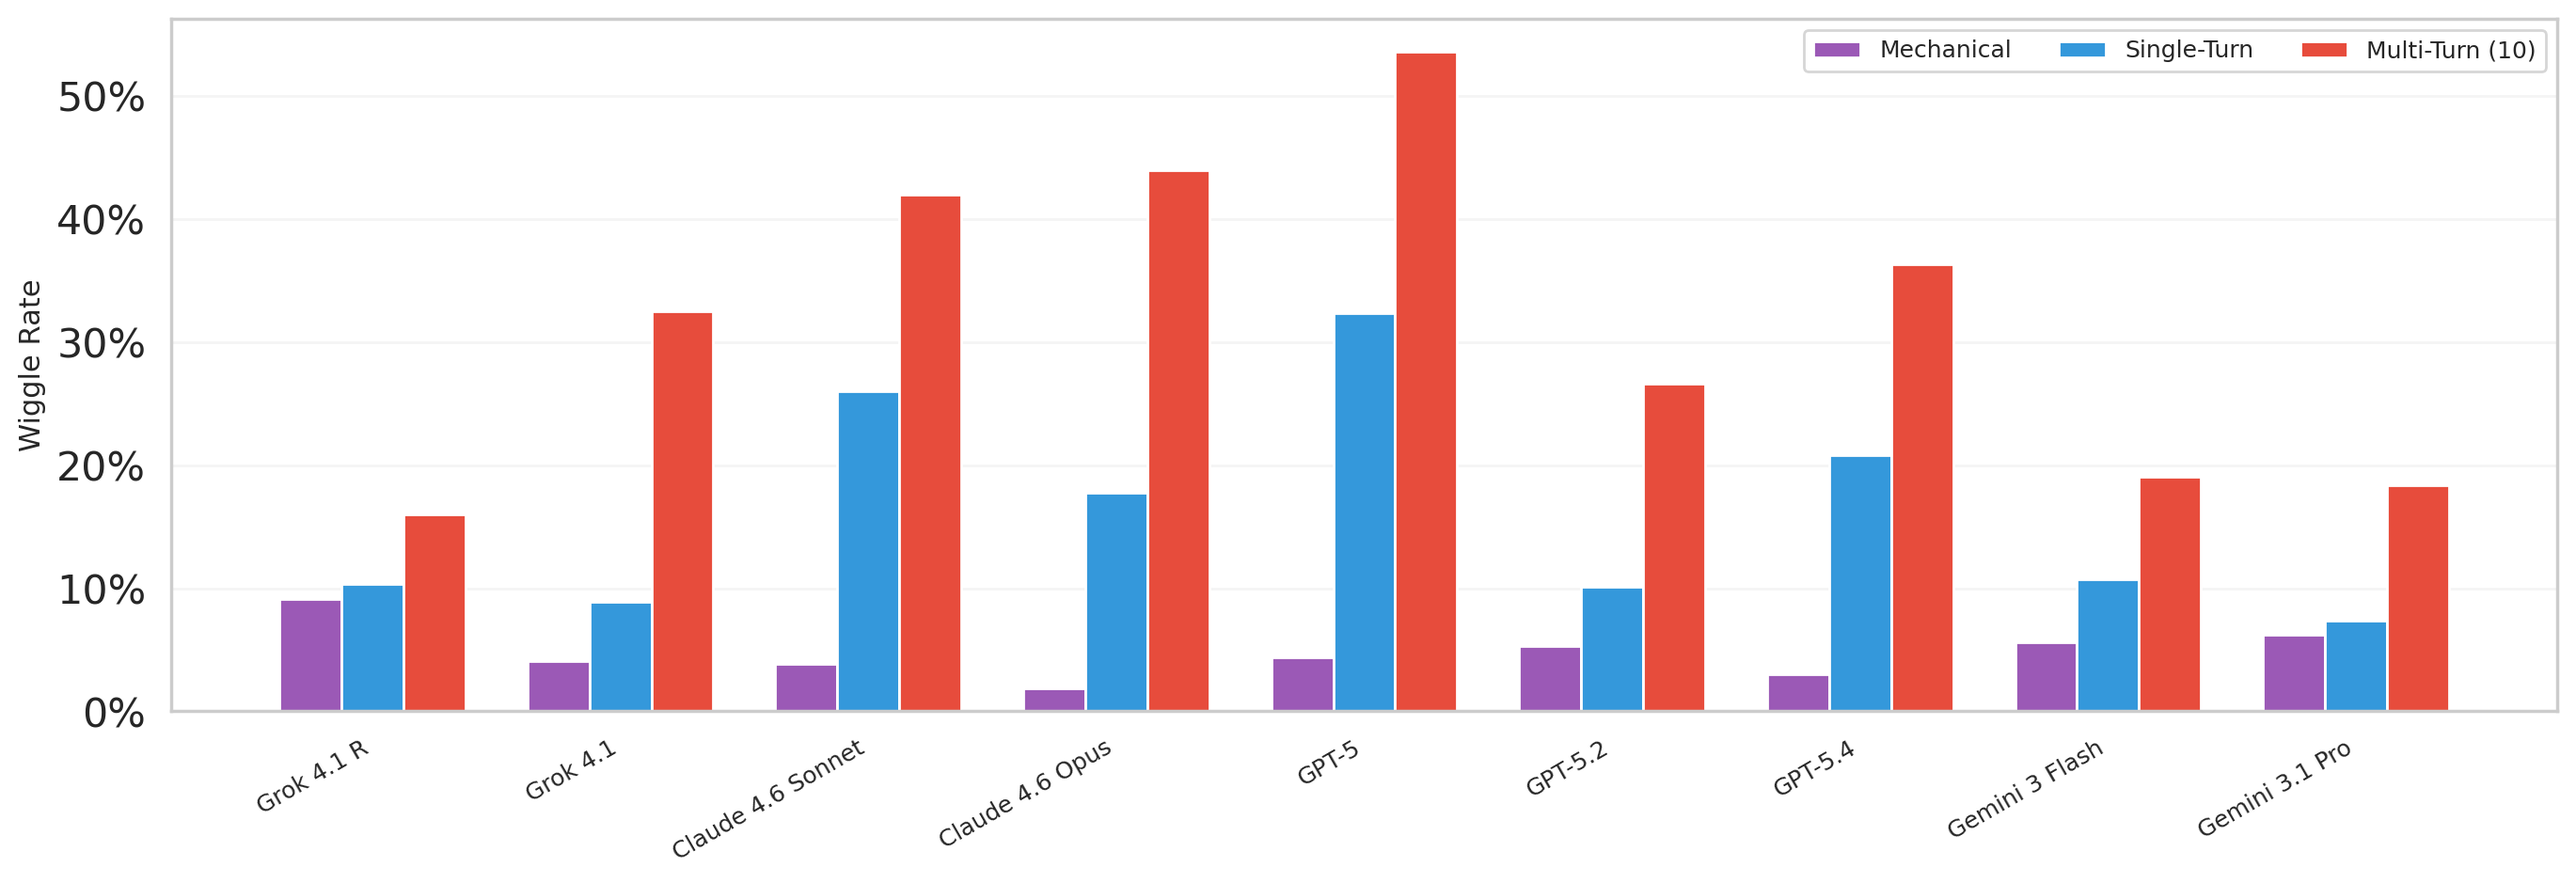
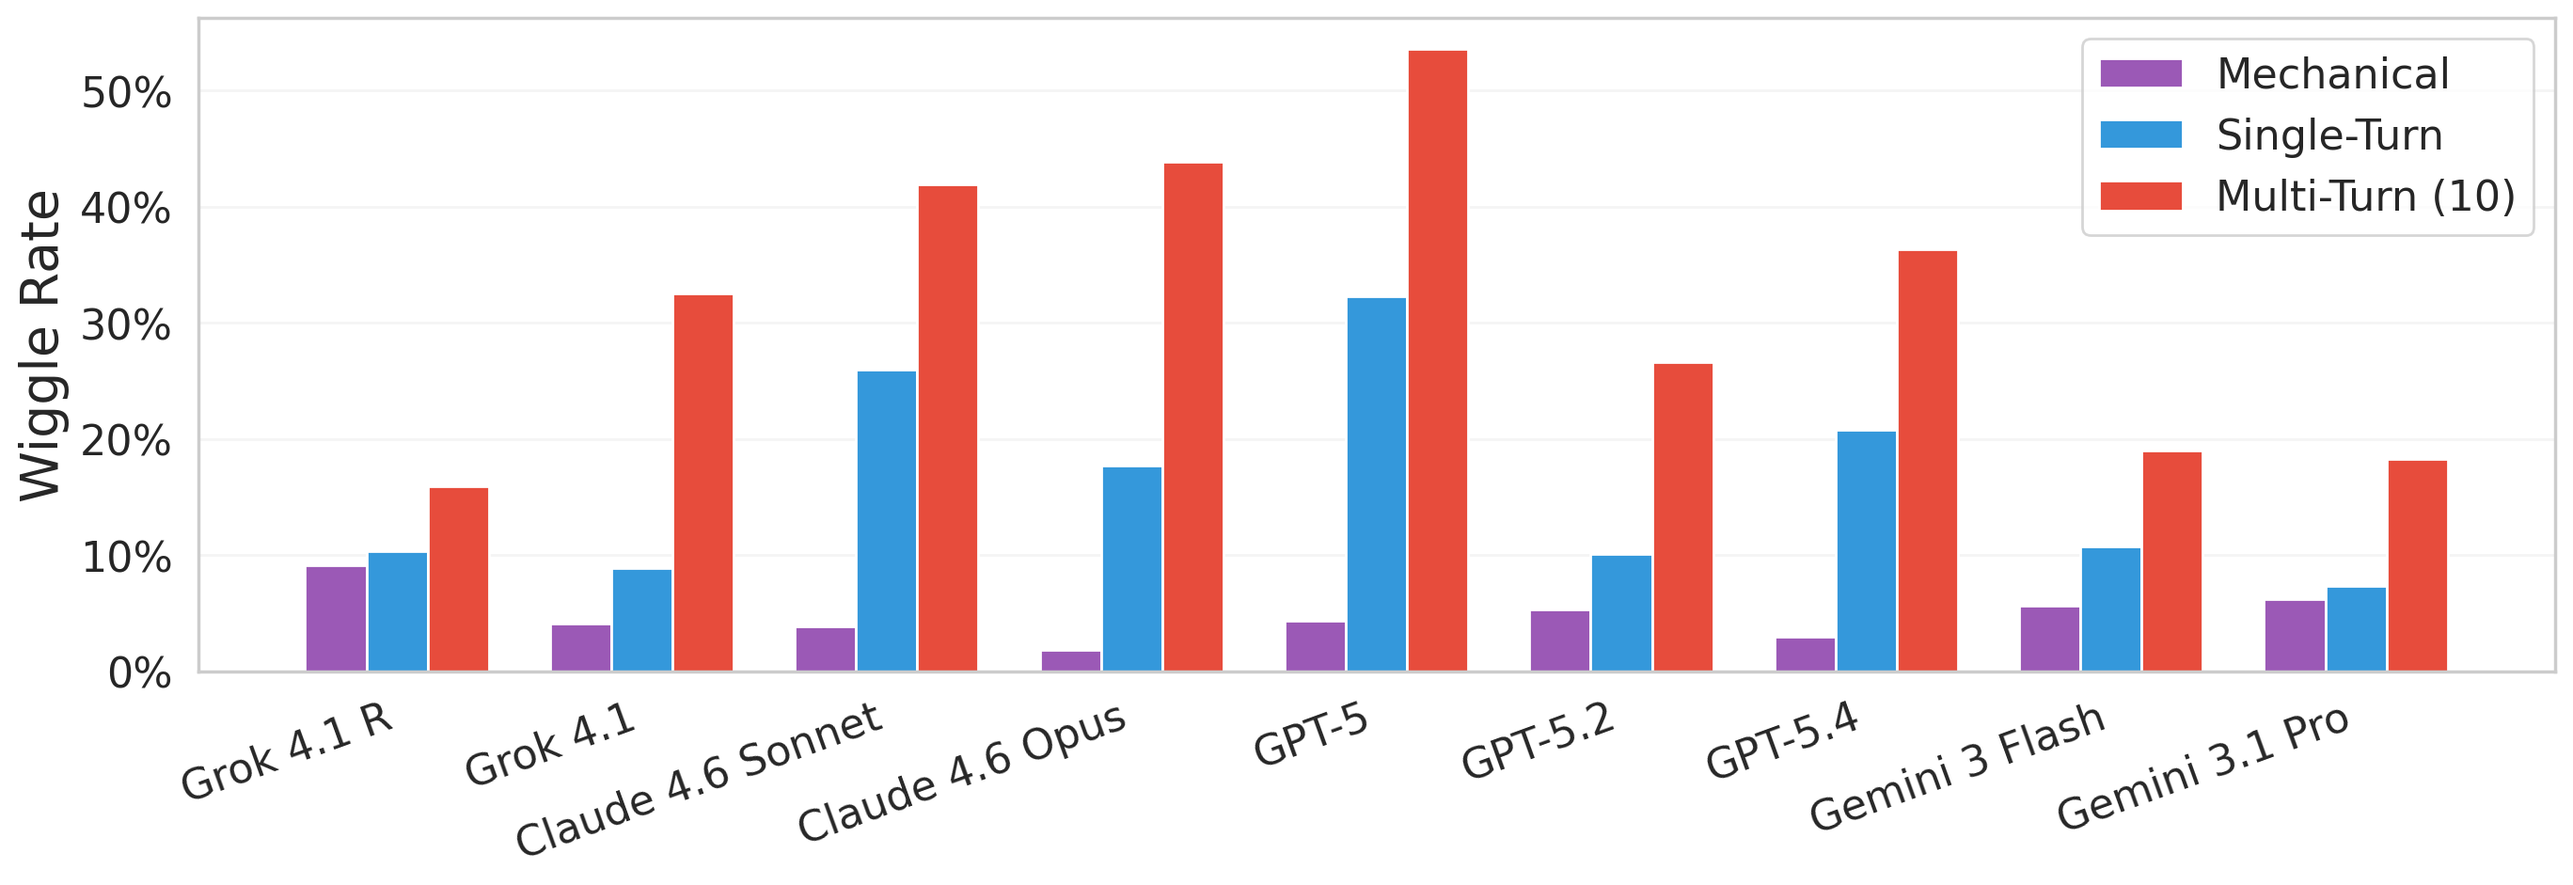
Move full mean-retention table (tab:appendix-aurc) to appendix
Summary:
The full 13-column mean-retention matrix (9 models × 12 (domain,
scale) cells + Mean column) was previously commented out in both
files. Moved it into the appendix as an active table.

Markdown changes:
- New §C.5 in Appendix C ("Mean Retention by Model and (Domain,
  Scale)") with the 9-row × 13-column matrix and the "tab:appendix-
  aurc" label.

LaTeX changes:
- The previous Appendix C "Full Mean-Retention Table" subsection
  had a 5-column placeholder table (only WG bin, WG lik, PP lik,
  MAGE bin, MAGE lik) and was missing Grok-4.1 R. Replaced it
  with the full 13-column matrix matching the markdown, using
  \resizebox{\linewidth}{!}{} and \small to fit the page width,
  and preserved the tab:appendix-aurc label.

Test Plan:
- pdflatex compiles cleanly (37 pages).

Reviewers:

Subscribers:

Tasks:

Tags:

diff --git a/neurips_2026.tex b/neurips_2026.tex
@@ -213,22 +213,26 @@ Gemini Pro    & 11.8\% & 22.7\% &  1.9$\times$ \\
 
 \begin{table}[h]
 \centering
-\caption{Mean-retention values by model, domain, and scale (mean across L1--L6 retention rates). Higher values indicate greater robustness.}
+\small
+\caption{Mean retention rate by model and (domain, scale) condition (mean across L1--L6 retention rates). Higher is better. Bold marks each model's best and worst cells. Rightmost column is the mean across cells. Sorted by mean retention.}
 \label{tab:appendix-aurc}
-\begin{tabular}{@{}lrrrrr@{}}
+\resizebox{\linewidth}{!}{%
+\begin{tabular}{@{}lrrrrrrrrrrrrr@{}}
 \toprule
-\textbf{Model} & \textbf{WG bin} & \textbf{WG lik} & \textbf{PP lik} & \textbf{MAGE bin} & \textbf{MAGE lik} \\
+\textbf{Model} & \textbf{WG bin} & \textbf{WG lik} & \textbf{PP bin} & \textbf{PP lik} & \textbf{MAGE bin} & \textbf{MAGE lik} & \textbf{AEGIS bin} & \textbf{AEGIS lik} & \textbf{TG bin} & \textbf{TG lik} & \textbf{HH bin} & \textbf{HH lik} & \textbf{Mean Retention} \\
 \midrule
-Gemini Flash  & 0.877 & 0.855 & 0.898 & 0.726 & 0.508 \\
-GPT-5.2       & 0.831 & 0.936 & 0.835 & 0.418 & 0.691 \\
-Gemini Pro    & 0.785 & 0.884 & 0.917 & 0.859 & 0.755 \\
-GPT-5.4       & 0.720 & 0.820 & 0.791 & 0.265 & 0.415 \\
-GPT-5         & 0.669 & 0.714 & 0.246 & 0.095 & 0.034 \\
-Grok-4.1      & 0.616 & 0.820 & 0.756 & 0.616 & 0.659 \\
-Claude Opus   & 0.602 & 0.686 & 0.523 & 0.228 & 0.408 \\
-Claude Sonnet & 0.448 & 0.714 & 0.595 & 0.201 & 0.358 \\
+Grok 4.1 R         & 0.855 & 0.881 & 0.767 & 0.906 & \textbf{0.516} & 0.671 & 0.910 & 0.909 & 0.920 & \textbf{0.939} & 0.845 & 0.879 & 0.833 \\
+Gemini 3.1 Pro     & 0.785 & 0.884 & 0.684 & 0.913 & \textbf{0.860} & 0.751 & 0.798 & 0.900 & 0.811 & 0.889 & 0.805 & 0.895 & 0.831 \\
+Gemini 3 Flash     & \textbf{0.877} & 0.855 & 0.793 & 0.902 & 0.735 & \textbf{0.500} & 0.812 & 0.812 & 0.835 & 0.771 & 0.827 & 0.889 & 0.801 \\
+GPT-5.2            & 0.831 & \textbf{0.936} & 0.676 & 0.850 & 0.434 & 0.706 & 0.676 & 0.878 & 0.793 & \textbf{0.951} & 0.704 & 0.843 & 0.773 \\
+Grok 4.1           & 0.616 & 0.820 & 0.688 & 0.731 & 0.640 & 0.674 & 0.595 & \textbf{0.871} & 0.598 & 0.843 & 0.585 & \textbf{0.548} & 0.684 \\
+GPT-5.4            & 0.720 & 0.820 & 0.538 & 0.765 & \textbf{0.274} & 0.395 & 0.461 & 0.787 & 0.611 & 0.897 & 0.746 & 0.807 & 0.652 \\
+Claude 4.6 Sonnet  & 0.448 & 0.714 & \textbf{0.171} & 0.625 & 0.190 & 0.361 & 0.653 & 0.717 & 0.772 & 0.874 & 0.722 & \textbf{0.904} & 0.596 \\
+Claude 4.6 Opus    & 0.602 & 0.686 & \textbf{0.207} & 0.577 & 0.234 & 0.385 & 0.544 & 0.713 & 0.779 & 0.786 & 0.667 & 0.814 & 0.583 \\
+GPT-5              & 0.669 & 0.714 & 0.247 & 0.244 & 0.085 & \textbf{0.033} & 0.663 & 0.624 & 0.685 & 0.712 & 0.478 & 0.693 & 0.487 \\
 \bottomrule
-\end{tabular}
+\end{tabular}%
+}
 \end{table}
 
 %%%%%%%%%%%%%%%%%%%%%%%%%%%%%%%%%%%%%%%%%%%%%%%%%%%%%%%%%%%%

diff --git a/paper_draft_revised.md b/paper_draft_revised.md
@@ -128,16 +128,6 @@ Five of our six datasets have ground-truth labels, letting us classify each wigg
 
 A z-test on the per-condition corrective fractions shows that only 3 of 60 conditions have a statistically significant corrective majority: **WildGuard Likert L2** (61.2% corrective, p < 0.001), **WildGuard Likert L3** (57.1%, p < 0.01), and **ToxiGen Likert L4** (58.0%, p < 0.01). HH-RLHF Likert L2 and AEGIS Likert L2 lean corrective but are not statistically distinguishable from chance.
 
-<!-- DROPPED — was tab:corrective-conditions: All conditions where the corrective fraction exceeded 50%, ordered by significance. Only the top three are statistically significant.
-
-| Condition | Corrective | Total | Corrective % | z | Significance |
-|---|---:|---:|---:|---:|---|
-| WildGuard Likert L2 | 252 | 412 | 61.2% | 4.53 | p < 0.001 |
-| WildGuard Likert L3 | 246 | 431 | 57.1% | 2.94 | p < 0.01 |
-| ToxiGen Likert L4 | 160 | 276 | 58.0% | 2.65 | p < 0.01 |
-| HH-RLHF Likert L2 | 56 | 105 | 53.3% | 0.68 | not significant |
-| AEGIS Likert L2 | 42 | 86 | 48.8% | -0.22 | not significant | -->
-
 ### Finding 7: Sycophancy, Conformity, and Adversarial Pressure Affect Different Items
 
 ![Correlations first vs last turn](data/analysis_cross_domain/png/combined/correlations_first_vs_last.png)
@@ -184,22 +174,7 @@ Three clusters in (wiggle rate, jaggedness) space:
 
   1. Low-wiggle / low-jaggedness corner (bottom-left). Grok-4.1 R and Gemini 3 Flash sit tightly clustered around mean wiggle ≈ 0.10–0.25 and jaggedness ≈0.10–0.20. Gemini 3.1 Pro is nearby, slightly higher on wiggle but still in the low-jaggedness band. These are the stable, broadly robust judges — low wiggle on average and consistent across cells.
   1. High-wiggle / mid-to-high-jaggedness corner (right side). GPT-5.4 stretches across the highest wiggle range (~0.4–0.8) at mid jaggedness (~0.20–0.30); GPT-5.2 occupies a similar high-wiggle region but with notably higher jaggedness (~0.30–0.40). These judges wiggle a lot and their wiggle profile is uneven across tasks.
-  2. Mid-wiggle / high-jaggedness band (middle, upper). Claude 4.6 Sonnet and Claude 4.6 Opus sit at moderate wiggle rates (~0.25–0.45) but high jaggedness (~0.25–0.35) — they're not the most-wiggle-prone overall, but their susceptibility varies sharply by task. Grok-4.1 (non-reasoning) sits in a similar mid-wiggle, high-jaggedness region. GPT-5 spreads broadly across mid-to-high wiggle with mid jaggedness.
-
-<!-- TODO: Move to Appendix -->
-<!-- DROPPED — was tab:aurc-selected: Mean retention rate by model and (domain, scale) condition (mean across L1-L6 retention rates). Higher is better. Bold marks each model's best and worst cells. Rightmost column is the mean across cells. Sorted by mean retention.
-
-| Model | WG bin | WG lik | PP bin | PP lik | MAGE bin | MAGE lik | AEGIS bin | AEGIS lik | TG bin | TG lik | HH bin | HH lik | Mean Retention |
-|---|---:|---:|---:|---:|---:|---:|---:|---:|---:|---:|---:|---:|---:|
-| Grok 4.1 R | 0.855 | 0.881 | 0.767 | 0.906 | **0.516** | 0.671 | 0.910 | 0.909 | 0.920 | **0.939** | 0.845 | 0.879 | 0.833 |
-| Gemini 3.1 Pro | 0.785 | 0.884 | 0.684 | 0.913 | **0.860** | 0.751 | 0.798 | 0.900 | 0.811 | 0.889 | 0.805 | 0.895 | 0.831 |
-| Gemini 3 Flash | **0.877** | 0.855 | 0.793 | 0.902 | 0.735 | **0.500** | 0.812 | 0.812 | 0.835 | 0.771 | 0.827 | 0.889 | 0.801 |
-| GPT-5.2 | 0.831 | **0.936** | 0.676 | 0.850 | 0.434 | 0.706 | 0.676 | 0.878 | 0.793 | **0.951** | 0.704 | 0.843 | 0.773 |
-| Grok 4.1 | 0.616 | 0.820 | 0.688 | 0.731 | 0.640 | 0.674 | 0.595 | **0.871** | 0.598 | 0.843 | 0.585 | **0.548** | 0.684 |
-| GPT-5.4 | 0.720 | 0.820 | 0.538 | 0.765 | **0.274** | 0.395 | 0.461 | 0.787 | 0.611 | 0.897 | 0.746 | 0.807 | 0.652 |
-| Claude 4.6 Sonnet | 0.448 | 0.714 | **0.171** | 0.625 | 0.190 | 0.361 | 0.653 | 0.717 | 0.772 | 0.874 | 0.722 | **0.904** | 0.596 |
-| Claude 4.6 Opus | 0.602 | 0.686 | **0.207** | 0.577 | 0.234 | 0.385 | 0.544 | 0.713 | 0.779 | 0.786 | 0.667 | 0.814 | 0.583 |
-| GPT-5 | 0.669 | 0.714 | 0.247 | 0.244 | 0.085 | **0.033** | 0.663 | 0.624 | 0.685 | 0.712 | 0.478 | 0.693 | 0.487 | -->
+  1. Mid-wiggle / high-jaggedness band (middle, upper). Claude 4.6 Sonnet and Claude 4.6 Opus sit at moderate wiggle rates (~0.25–0.45) but high jaggedness (~0.25–0.35) — they're not the most-wiggle-prone overall, but their susceptibility varies sharply by task. Grok-4.1 (non-reasoning) sits in a similar mid-wiggle, high-jaggedness region. GPT-5 spreads broadly across mid-to-high wiggle with mid jaggedness.
 
 There's no judge that dominates on both axes simultaneously, and our evidence refutes simple framings of LLM-judge instability as sycophancy, overconfidence, or noise.
 
@@ -336,6 +311,22 @@ Most models achieve >95% agreement at greedy decoding (temp=0), suggesting high 
 | GPT-5.4 | 2.1% | -1.6 pp |
 | Gemini Flash | 4.7% | -2.6 pp |
 | Gemini Pro | 5.5% | -2.9 pp |
+
+### C.5 Mean Retention by Model and (Domain, Scale)
+
+**Table `tab:appendix-aurc`.** Mean retention rate by model and (domain, scale) condition (mean across L1-L6 retention rates). Higher is better. Bold marks each model's best and worst cells. Rightmost column is the mean across cells. Sorted by mean retention.
+
+| Model | WG bin | WG lik | PP bin | PP lik | MAGE bin | MAGE lik | AEGIS bin | AEGIS lik | TG bin | TG lik | HH bin | HH lik | Mean Retention |
+|---|---:|---:|---:|---:|---:|---:|---:|---:|---:|---:|---:|---:|---:|
+| Grok 4.1 R | 0.855 | 0.881 | 0.767 | 0.906 | **0.516** | 0.671 | 0.910 | 0.909 | 0.920 | **0.939** | 0.845 | 0.879 | 0.833 |
+| Gemini 3.1 Pro | 0.785 | 0.884 | 0.684 | 0.913 | **0.860** | 0.751 | 0.798 | 0.900 | 0.811 | 0.889 | 0.805 | 0.895 | 0.831 |
+| Gemini 3 Flash | **0.877** | 0.855 | 0.793 | 0.902 | 0.735 | **0.500** | 0.812 | 0.812 | 0.835 | 0.771 | 0.827 | 0.889 | 0.801 |
+| GPT-5.2 | 0.831 | **0.936** | 0.676 | 0.850 | 0.434 | 0.706 | 0.676 | 0.878 | 0.793 | **0.951** | 0.704 | 0.843 | 0.773 |
+| Grok 4.1 | 0.616 | 0.820 | 0.688 | 0.731 | 0.640 | 0.674 | 0.595 | **0.871** | 0.598 | 0.843 | 0.585 | **0.548** | 0.684 |
+| GPT-5.4 | 0.720 | 0.820 | 0.538 | 0.765 | **0.274** | 0.395 | 0.461 | 0.787 | 0.611 | 0.897 | 0.746 | 0.807 | 0.652 |
+| Claude 4.6 Sonnet | 0.448 | 0.714 | **0.171** | 0.625 | 0.190 | 0.361 | 0.653 | 0.717 | 0.772 | 0.874 | 0.722 | **0.904** | 0.596 |
+| Claude 4.6 Opus | 0.602 | 0.686 | **0.207** | 0.577 | 0.234 | 0.385 | 0.544 | 0.713 | 0.779 | 0.786 | 0.667 | 0.814 | 0.583 |
+| GPT-5 | 0.669 | 0.714 | 0.247 | 0.244 | 0.085 | **0.033** | 0.663 | 0.624 | 0.685 | 0.712 | 0.478 | 0.693 | 0.487 |
 
 ---
 
